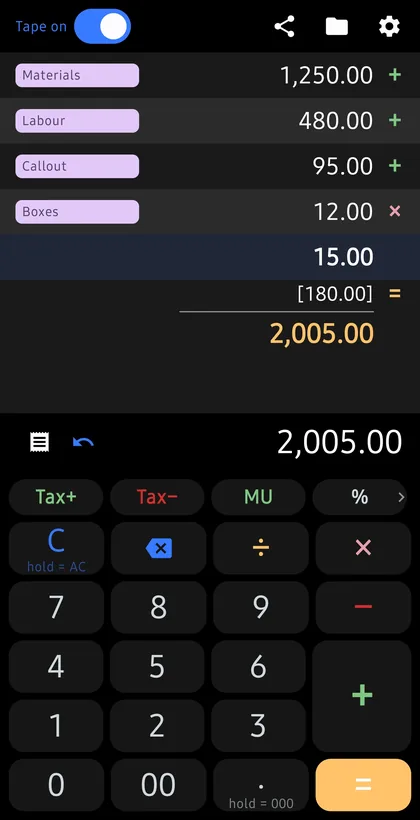
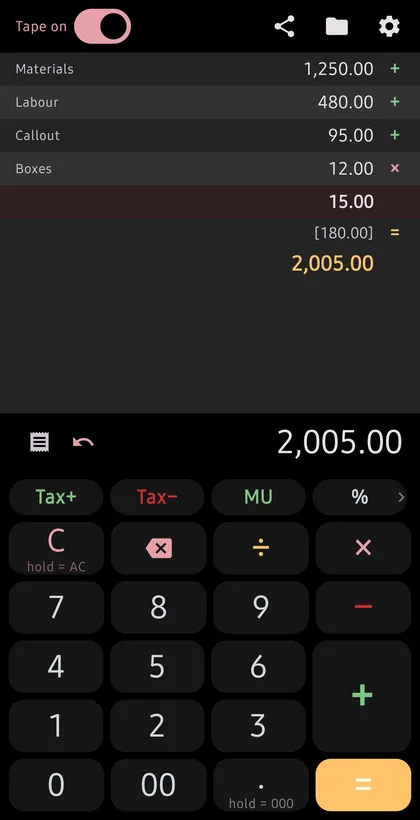
Refresh the Subs+ and OfficeCalc card shots
Both were dated against the shipped apps.

OfficeCalc's shot still showed the old lavender palette; the app has
shipped the rose one since 23-08, so the site was advertising a colour
scheme nobody gets.

Subs+'s shot was the Insights breakdown, from a build whose header read
"26 subscriptions" and carried no filter icons. It is now the home
screen the app actually opens on, which is also the more legible card at
420px: brand logos, prices and cancel-by dates rather than category
bars.

Both regenerated from the current Play listing shots at the exact slot
sizes already in the HTML (420x820 and 900x1758), so no layout shifts.
The Subs+ alt text is rewritten to describe the new screen; OfficeCalc's
still describes its own exactly, same view in a new palette, so it
stands. Sitemap lastmods touched for the two pages.

Verified on a local server: every request 200, both landing pages and
the apps index render the new images.

diff --git a/apps/subs-plus.html b/apps/subs-plus.html
@@ -54,7 +54,7 @@
         </div>
       </div>
       <img class="shot-img phone" data-full="../img/subs-plus-large.webp" src="../img/subs-plus.webp" width="420" height="820" loading="lazy"
-           alt="Subs+ insights screen breaking monthly subscription spend down by category.">
+           alt="Subs+ home screen showing GBP 458.31 of monthly subscription spend, about 5,581.54 a year across 26 active subscriptions, then Netflix, TradingView, Apple Music, Amazon Prime, YouTube Premium and Hulu with their prices, cancel-by dates and a countdown chip on each.">
     </div>
 
     <h2>Stop paying for things you forgot</h2>

diff --git a/apps/index.html b/apps/index.html
@@ -144,7 +144,7 @@
           </div>
         </div>
         <img class="shot-img" data-full="../img/subs-plus-large.webp" src="../img/subs-plus.webp" width="420" height="820" loading="lazy"
-             alt="Subs+ insights screen breaking monthly subscription spend down by category.">
+             alt="Subs+ home screen showing GBP 458.31 of monthly subscription spend, about 5,581.54 a year across 26 active subscriptions, then Netflix, TradingView, Apple Music, Amazon Prime, YouTube Premium and Hulu with their prices, cancel-by dates and a countdown chip on each.">
       </div>
 
       <div class="card shot">
